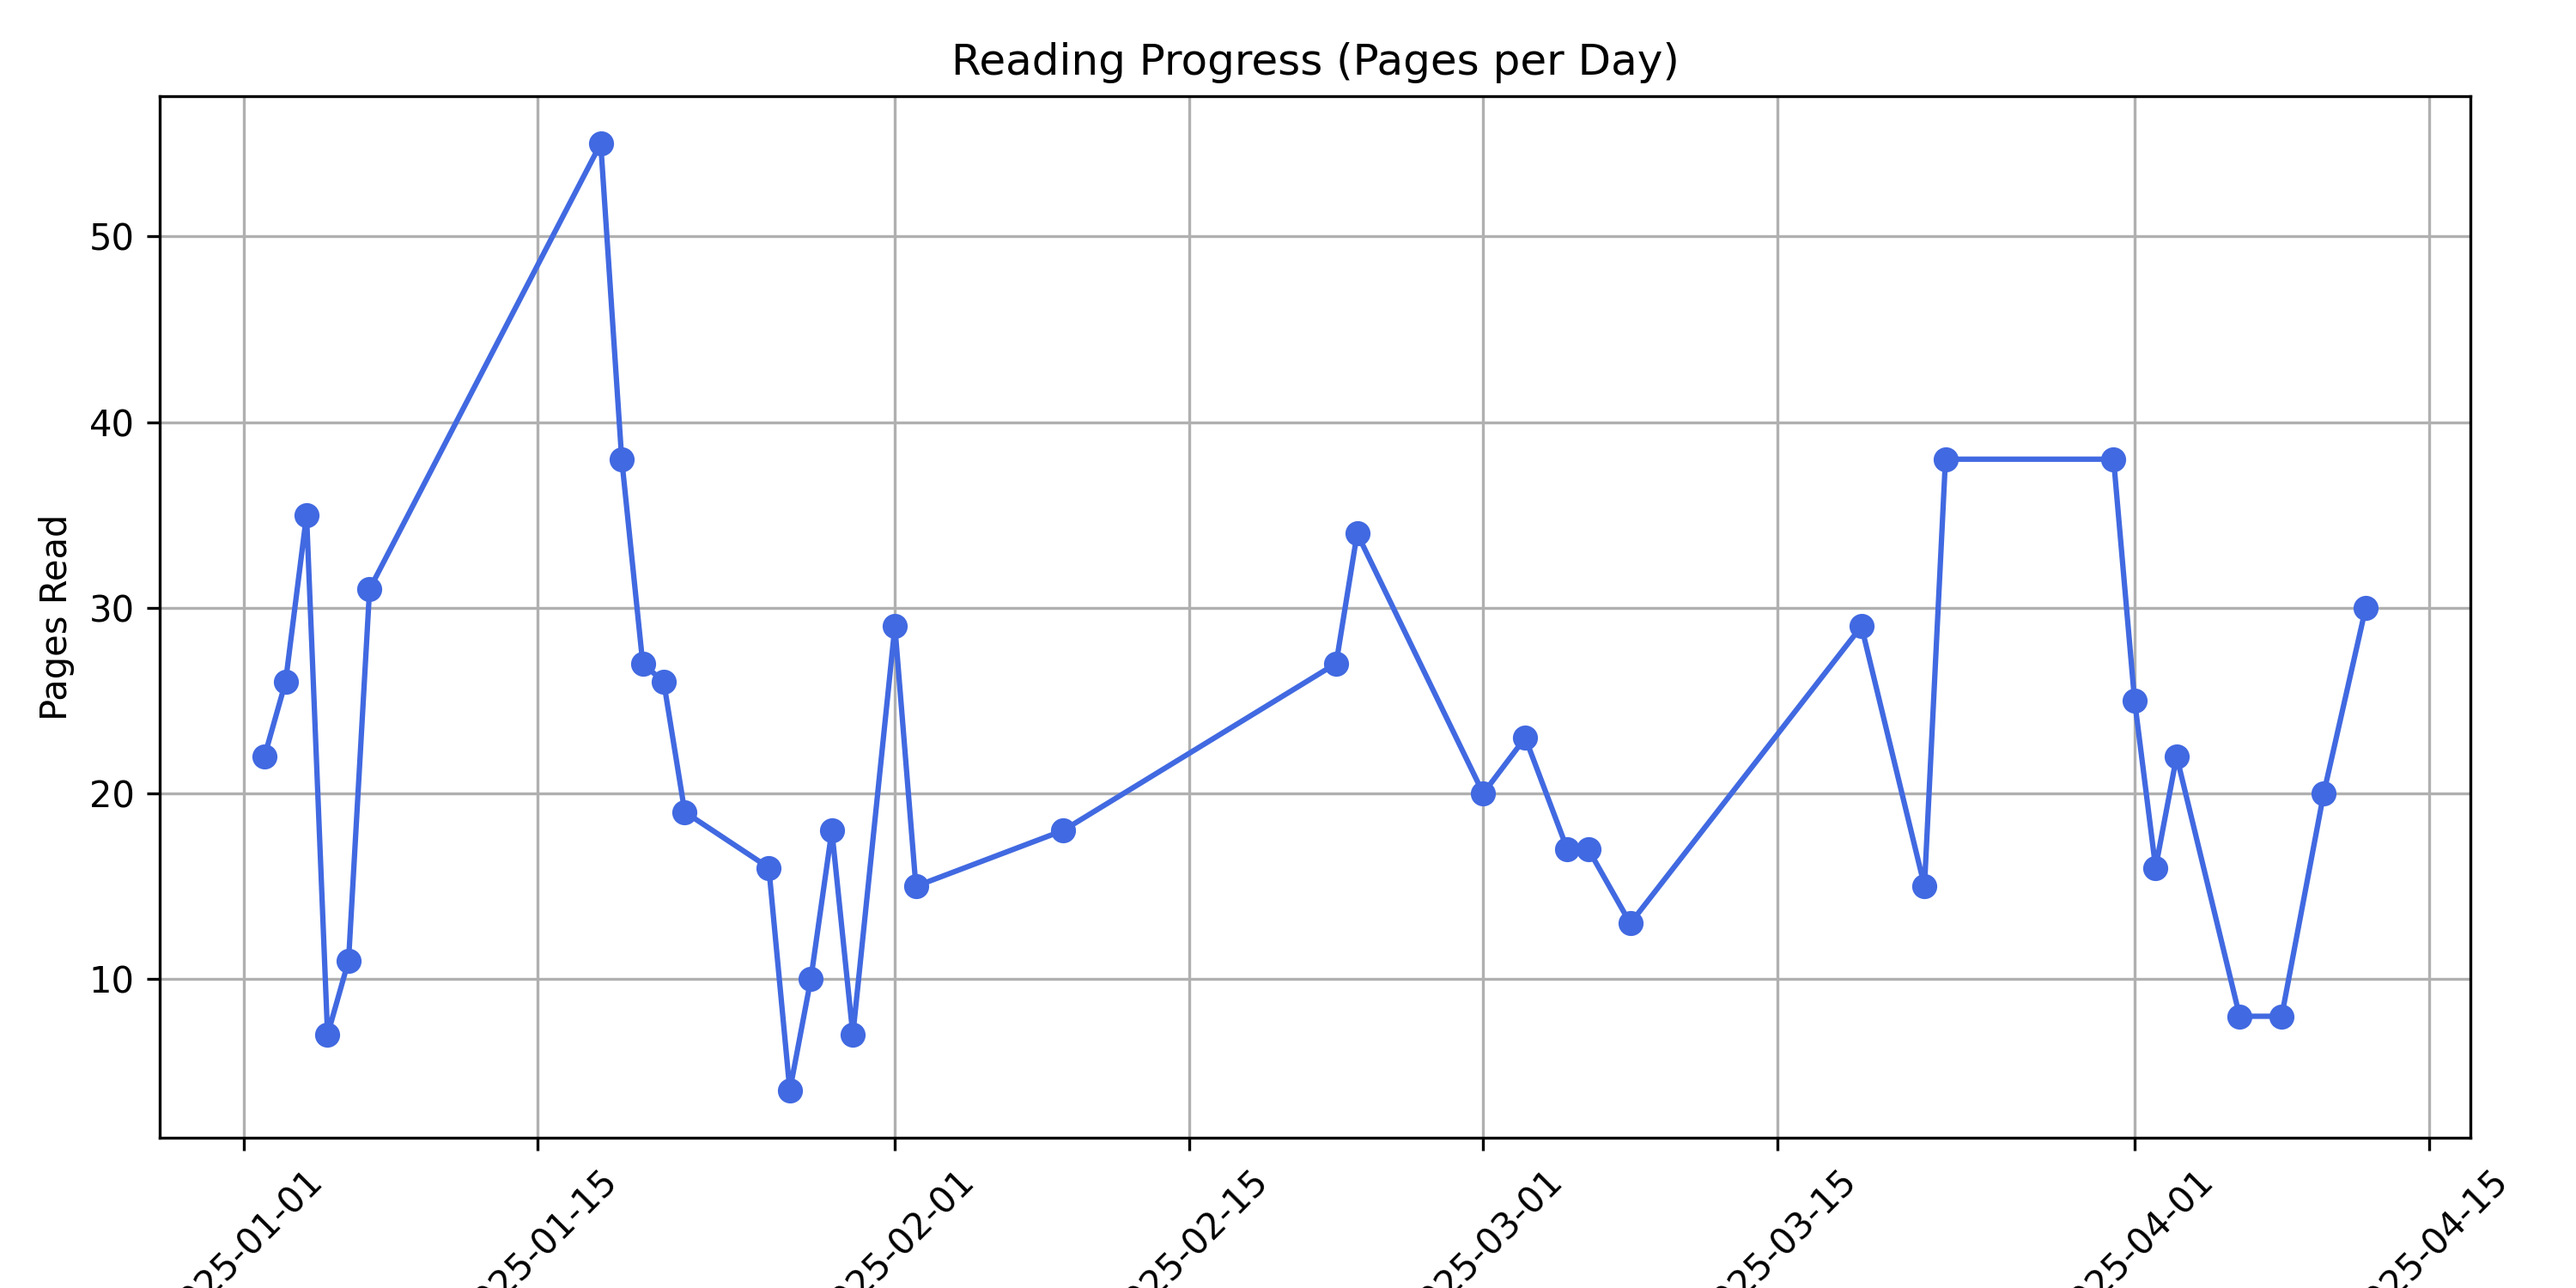
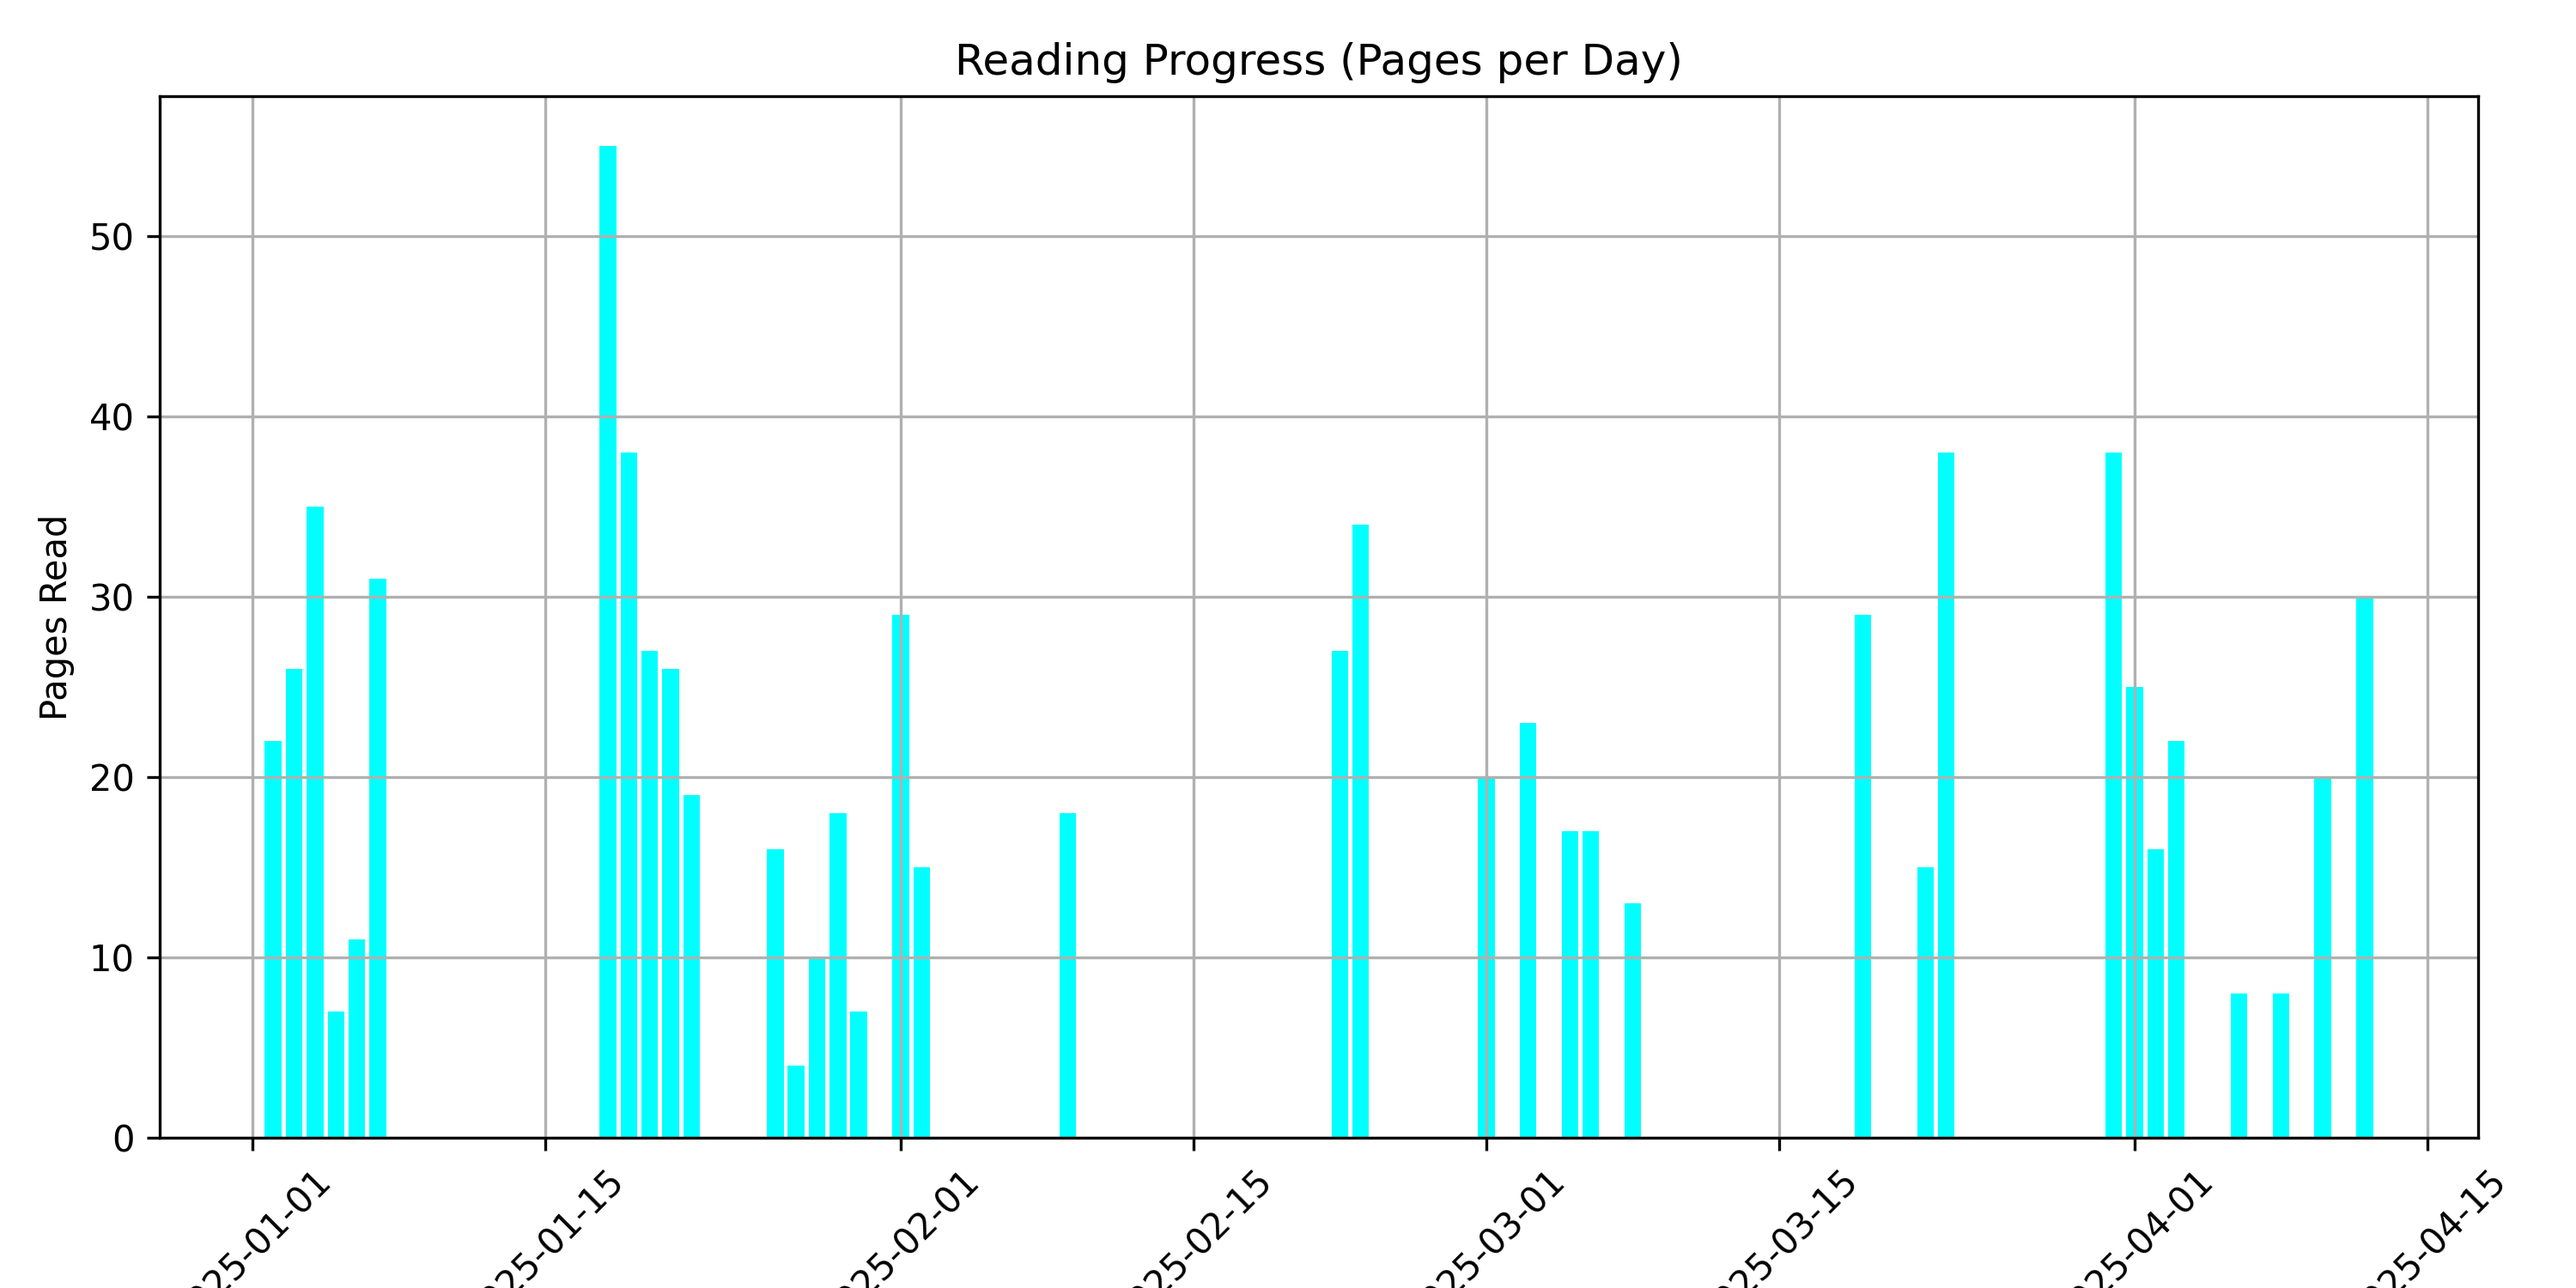
change to bar graph to visualize day not reading

diff --git a/data.py b/data.py
@@ -90,7 +90,7 @@ dates, pages_read = zip(*sorted_data)
 
 # Plot
 plt.figure(figsize=(10, 5))
-plt.plot(dates, pages_read, marker="o", linestyle="-", color="royalblue")
+plt.bar(dates, pages_read, color="#00ffff")
 plt.title("Reading Progress (Pages per Day)")
 plt.xlabel("Date")
 plt.ylabel("Pages Read")
